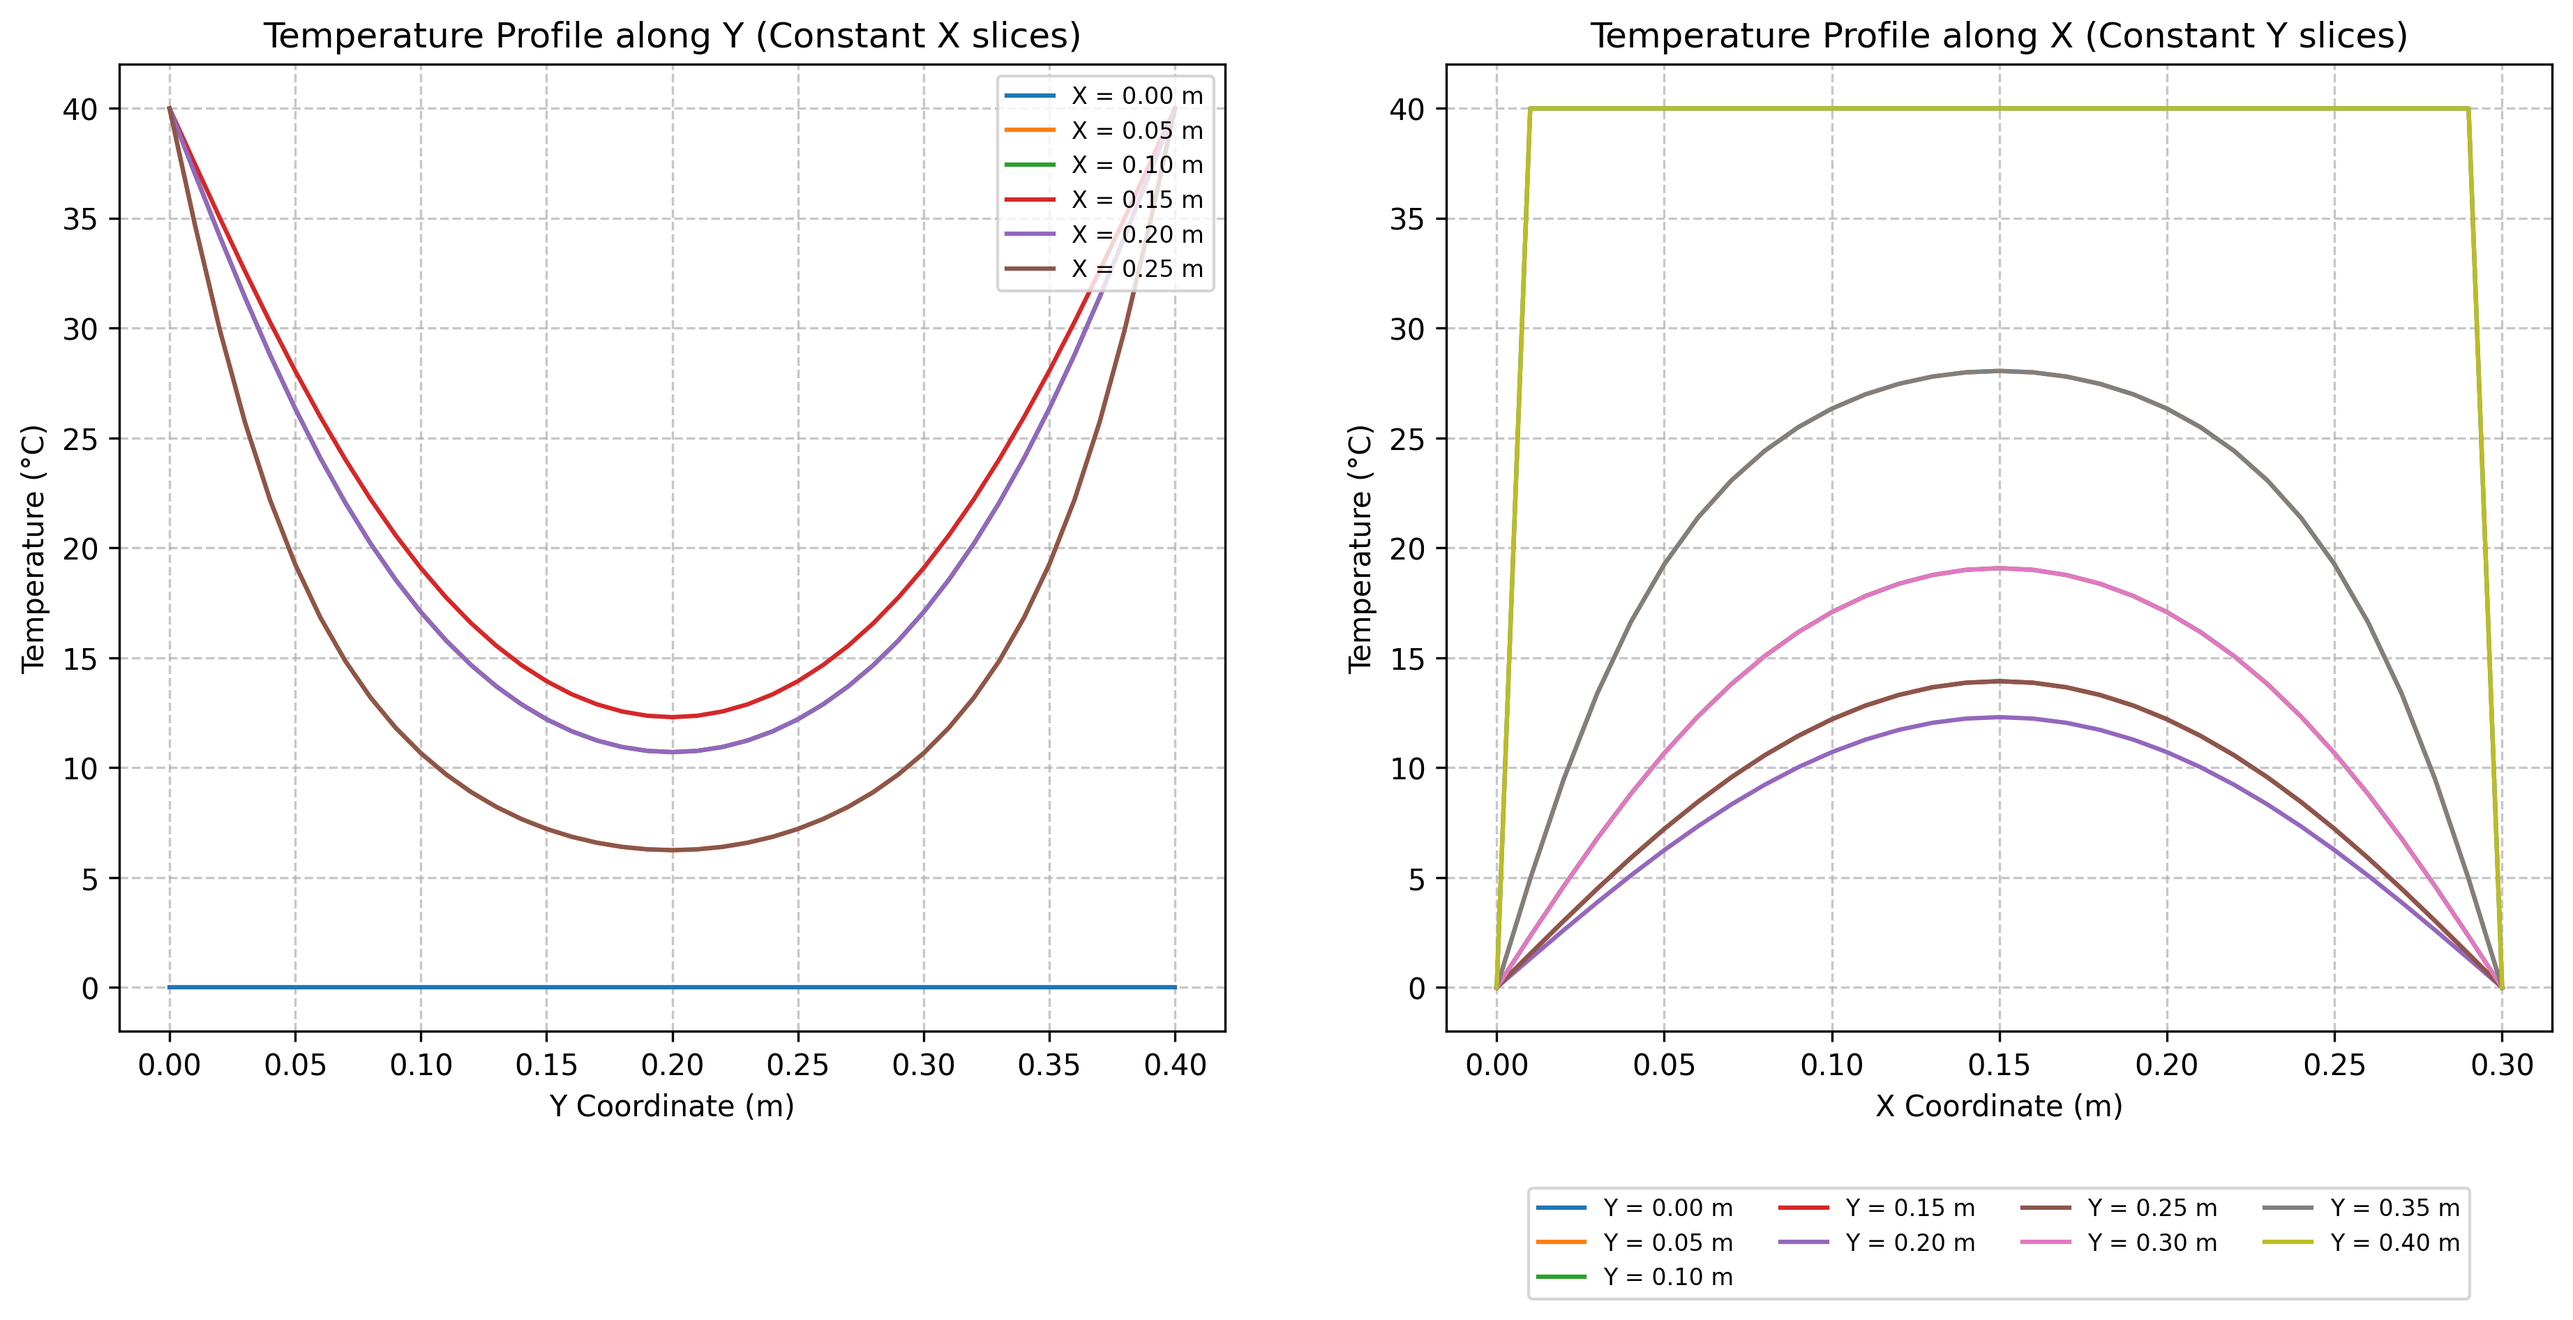
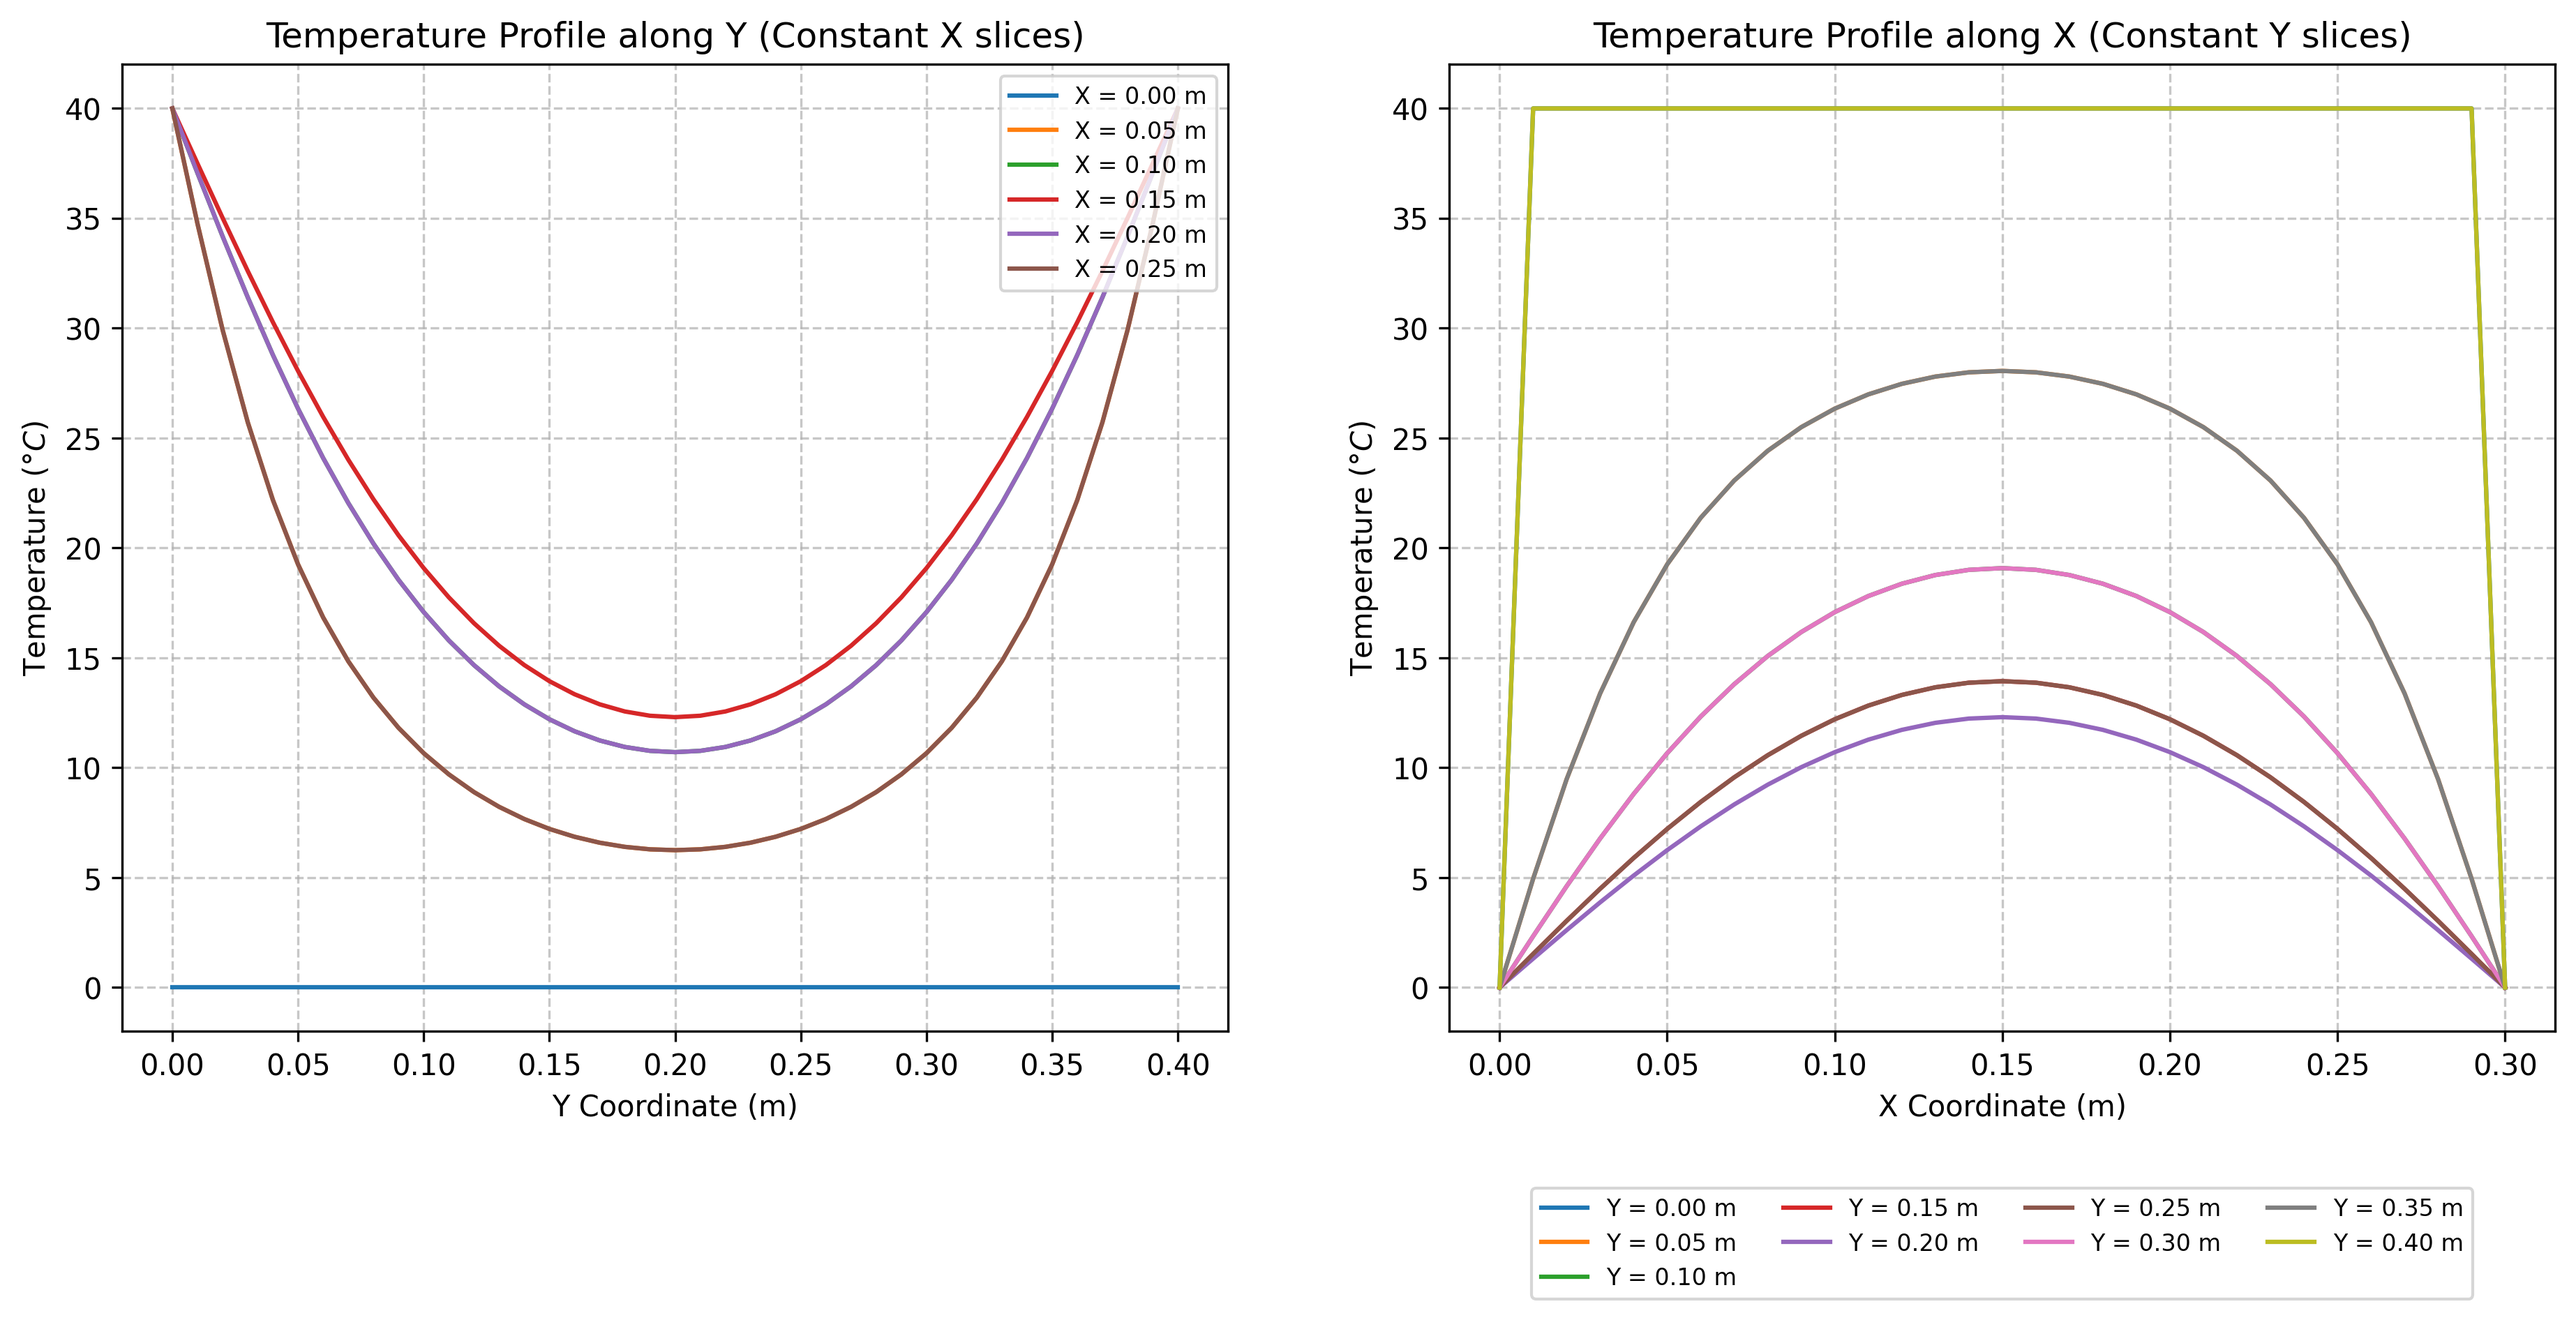
Added latex formatting in plot titles to avoid UTF error when trying to use these code in typeset report.

diff --git a/Assignment_2/plotter.py b/Assignment_2/plotter.py
@@ -90,7 +90,7 @@ def generate_plots(config):
 
     plt.figure(figsize=(8, 10))
     contour = plt.contourf(X, Y, T, levels=100, cmap="inferno")
-    plt.colorbar(contour, label="Temperature (°C)")
+    plt.colorbar(contour, label="Temperature $(\\degree C)$")
 
     plt.title(config["title"], fontsize=14)
     plt.xlabel("X Coordinate (m)", fontsize=12)
@@ -119,7 +119,7 @@ def generate_plots(config):
 
     ax1.set_title("Temperature Profile along Y (Constant X slices)")
     ax1.set_xlabel("Y Coordinate (m)")
-    ax1.set_ylabel("Temperature (°C)")
+    ax1.set_ylabel("Temperature $(\\degree C)$")
     ax1.grid(True, linestyle="--", alpha=0.7)
     ax1.legend(loc="upper right", fontsize=8)
 
@@ -132,7 +132,7 @@ def generate_plots(config):
 
     ax2.set_title("Temperature Profile along X (Constant Y slices)")
     ax2.set_xlabel("X Coordinate (m)")
-    ax2.set_ylabel("Temperature (°C)")
+    ax2.set_ylabel("Temperature $(\\degree C)$")
     ax2.grid(True, linestyle="--", alpha=0.7)
     ax2.legend(loc="upper center", bbox_to_anchor=(0.5, -0.15), ncol=4, fontsize=8)
 
